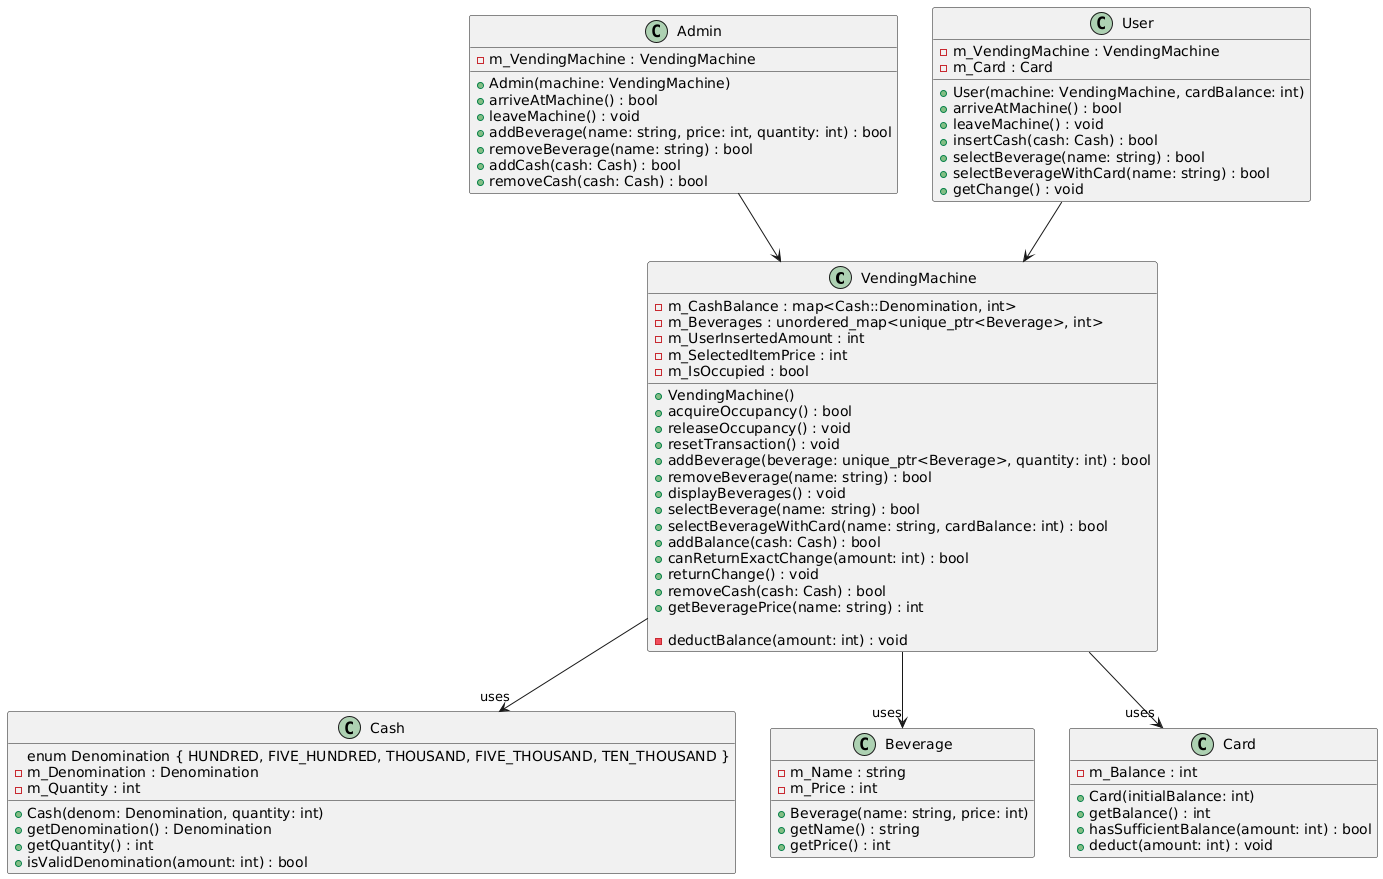
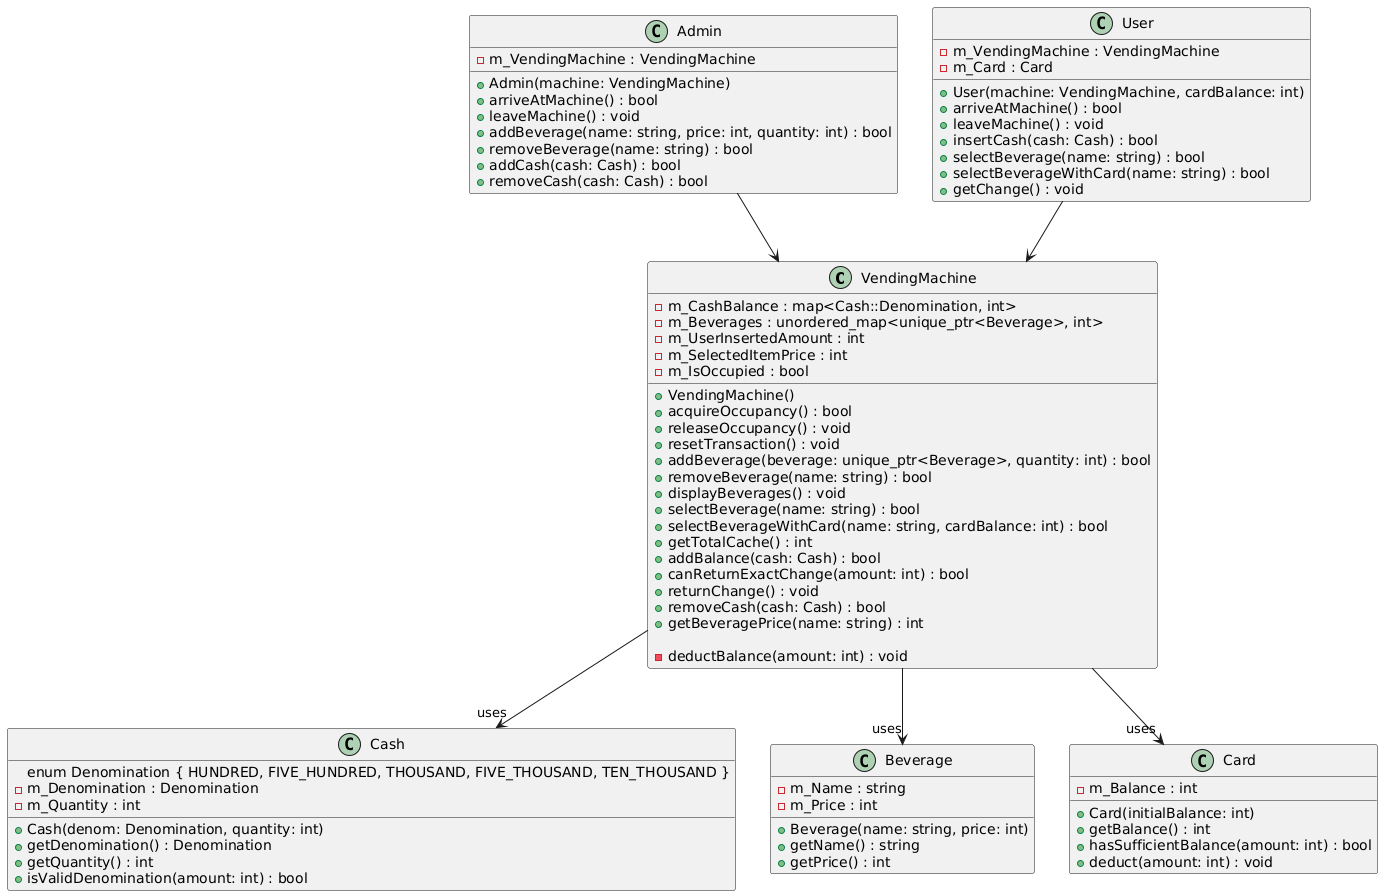
Added more test cases

diff --git a/tests/UserTests.cpp b/tests/UserTests.cpp
@@ -236,3 +236,155 @@ TEST(UserTests, UnableToProvideExactChange) {
 
     user.leaveMachine();
 }
+
+TEST(UserTests, TotalCashAfterStandardPurchase) {
+    CoutMute mute;
+
+    VendingMachine machine;
+    Admin admin(machine);
+
+    // Setup: Add cash and beverage
+    admin.arriveAtMachine();
+    admin.addBeverage("Water", 600, 5);
+    admin.addCash(Cash(Cash::Denomination::THOUSAND, 10));  // Adding 10 x 1000 KRW
+    admin.addCash(Cash(Cash::Denomination::HUNDRED, 5)); // Adding 5 x 100 KRW
+    admin.leaveMachine();
+
+    int initialCash = machine.getTotalCash();
+
+    // User pays 1000 KRW for an 600 KRW item, expecting 200 KRW in change
+    User user(machine, 0);
+    ASSERT_TRUE(user.arriveAtMachine());
+    user.insertCash(Cash(Cash::Denomination::THOUSAND, 1));
+    EXPECT_TRUE(user.selectBeverage("Water"));
+
+    EXPECT_TRUE(user.getChange());
+
+    // Expected cash after the purchase (600 KRW stays in machine, 200 KRW is returned)
+    int expectedCash = initialCash + 600;
+    EXPECT_EQ(machine.getTotalCash(), expectedCash);
+
+    user.leaveMachine();
+}
+
+TEST(UserTests, TotalCashWithExactPayment) {
+    CoutMute mute;
+
+    VendingMachine machine;
+    Admin admin(machine);
+
+    // Setup: Add cash and beverage
+    admin.arriveAtMachine();
+    admin.addBeverage("Water", 600, 5);
+    admin.addCash(Cash(Cash::Denomination::THOUSAND, 10));  // Adding 10 x 1000 KRW
+    admin.leaveMachine();
+
+    int initialCash = machine.getTotalCash();
+
+    // User pays 600 KRW (exact) for a 600 KRW item
+    User user(machine, 0);
+    ASSERT_TRUE(user.arriveAtMachine());
+    user.insertCash(Cash(Cash::Denomination::FIVE_HUNDRED, 1));
+    user.insertCash(Cash(Cash::Denomination::HUNDRED, 1));
+    EXPECT_TRUE(user.selectBeverage("Water"));
+
+    EXPECT_TRUE(user.getChange());
+
+    // Total cash should be increased by exactly 500 KRW (no change is given)
+    int expectedCash = initialCash + 600;
+    EXPECT_EQ(machine.getTotalCash(), expectedCash);
+
+    user.leaveMachine();
+}
+
+TEST(UserTests, TotalCashAfterInsufficientFundsAttempt) {
+    CoutMute mute;
+
+    VendingMachine machine;
+    Admin admin(machine);
+
+    // Setup: Add beverage
+    admin.arriveAtMachine();
+    admin.addBeverage("Cola", 1100, 5);
+    admin.leaveMachine();
+
+    int initialCash = machine.getTotalCash();
+
+    // User attempts to purchase Cola with insufficient funds (500 KRW only)
+    User user(machine, 0);
+    ASSERT_TRUE(user.arriveAtMachine());
+    user.insertCash(Cash(Cash::Denomination::FIVE_HUNDRED, 1));
+    EXPECT_FALSE(user.selectBeverage("Cola"));
+
+    EXPECT_TRUE(user.getChange());
+
+    // Total cash should remain unchanged since the purchase did not go through
+    EXPECT_EQ(machine.getTotalCash(), initialCash);
+
+    user.leaveMachine();
+}
+
+TEST(UserTests, TotalCashWithMultipleDenominationsForChange) {
+    CoutMute mute;
+
+    VendingMachine machine;
+    Admin admin(machine);
+
+    // Setup: Add cash and beverage
+    admin.arriveAtMachine();
+    admin.addBeverage("Cola", 1100, 5);
+    admin.addCash(Cash(Cash::Denomination::THOUSAND, 2));    // Adding 2 x 1000 KRW
+    admin.addCash(Cash(Cash::Denomination::FIVE_HUNDRED, 3)); // Adding 3 x 500 KRW
+    admin.addCash(Cash(Cash::Denomination::HUNDRED, 5));  // Adding 5 x 100 KRW
+    admin.leaveMachine();
+
+    int initialCash = machine.getTotalCash();
+
+    // User pays 2000 KRW for a 1200 KRW item, expecting 800 KRW in change (500 + 3 x 100)
+    User user(machine, 0);
+    ASSERT_TRUE(user.arriveAtMachine());
+    user.insertCash(Cash(Cash::Denomination::THOUSAND, 2));
+    EXPECT_TRUE(user.selectBeverage("Cola"));
+
+    EXPECT_TRUE(user.getChange());
+
+    // After the purchase, 1200 KRW stays in the machine, and 800 KRW is returned as change
+    int expectedCash = initialCash + 1100; // Only the cost of the item remains in the machine
+    EXPECT_EQ(machine.getTotalCash(), expectedCash);
+
+    user.leaveMachine();
+}
+
+TEST(UserTests, InsufficientChangeInMachine) {
+    CoutMute mute;
+
+    VendingMachine machine;
+    Admin admin(machine);
+
+    // Setup: Add beverage but not enough cash to provide change
+    admin.arriveAtMachine();
+    admin.addBeverage("Water", 600, 5);  // Beverage priced at 300 KRW
+    admin.addCash(Cash(Cash::Denomination::HUNDRED, 1));     // Only 1 x 100 KRW available
+    admin.leaveMachine();
+
+    int initialCash = machine.getTotalCash();
+
+    // User pays 1000 KRW for a 600 KRW item, expecting 700 KRW in change, but the machine only has 100 KRW
+    User user(machine, 0);
+    ASSERT_TRUE(user.arriveAtMachine());
+    user.insertCash(Cash(Cash::Denomination::THOUSAND, 1));  // Insert 1000 KRW
+
+    SCOPED_TRACE("Attempting to purchase 'Water' with insufficient change available in the machine");
+    EXPECT_TRUE(user.selectBeverage("Water"));
+
+    // Verify that the machine is unable to return the exact change and sets itself as out of order
+    EXPECT_FALSE(user.getChange());  // Expect this to return false, indicating exact change could not be provided
+
+    // After the failed change attempt, total cash should only increase by the what user gave
+    int expectedCash = initialCash + 1000;  // Only the item price is retained in the machine's balance
+    EXPECT_EQ(machine.getTotalCash(), expectedCash);
+
+    user.leaveMachine();
+}
+
+

diff --git a/include/VendingMachine.hpp b/include/VendingMachine.hpp
@@ -13,7 +13,7 @@ private:
     int m_UserInsertedAmount = 0; // Tracks the user's inserted amount for each transaction
     int m_SelectedItemPrice = 0;   // Price of the selected item
     bool m_IsOccupied = false;     // Tracks if the machine is in use
-    bool m_OutOfOrder = false;     // Tracks if the machine is out of order
+
 
 public:
     VendingMachine();
@@ -36,6 +36,7 @@ public:
     bool canReturnExactChange(int amount) const; // Check if exact change is possible
     bool returnChange();               // Return change to the user
     bool removeCash(const Cash& cash); // New method for cash removal
+    int getTotalCash() const;          // Accessor for total cash in the machine
 
     // Accessor for beverage price
     int getBeveragePrice(const std::string& name) const;

diff --git a/src/VendingMachine.cpp b/src/VendingMachine.cpp
@@ -15,10 +15,6 @@ bool VendingMachine::acquireOccupancy() {
         return false;
     }
 
-    if (m_OutOfOrder) {
-        std::cerr << "Vending machine is out of order." << std::endl;
-        return false;
-    }
 
     m_IsOccupied = true;
     return true;
@@ -206,6 +202,15 @@ void VendingMachine::deductBalance(int amount) {
         }
         if (amount == 0) break;
     }
+}
+
+// Get the total cash in the machine
+int VendingMachine::getTotalCash() const {
+    int total = 0;
+    for (const auto& [denom, count] : m_CashBalance) {
+        total += static_cast<int>(denom) * count;
+    }
+    return total;
 }
 
 // Get the price of a specific beverage by name
